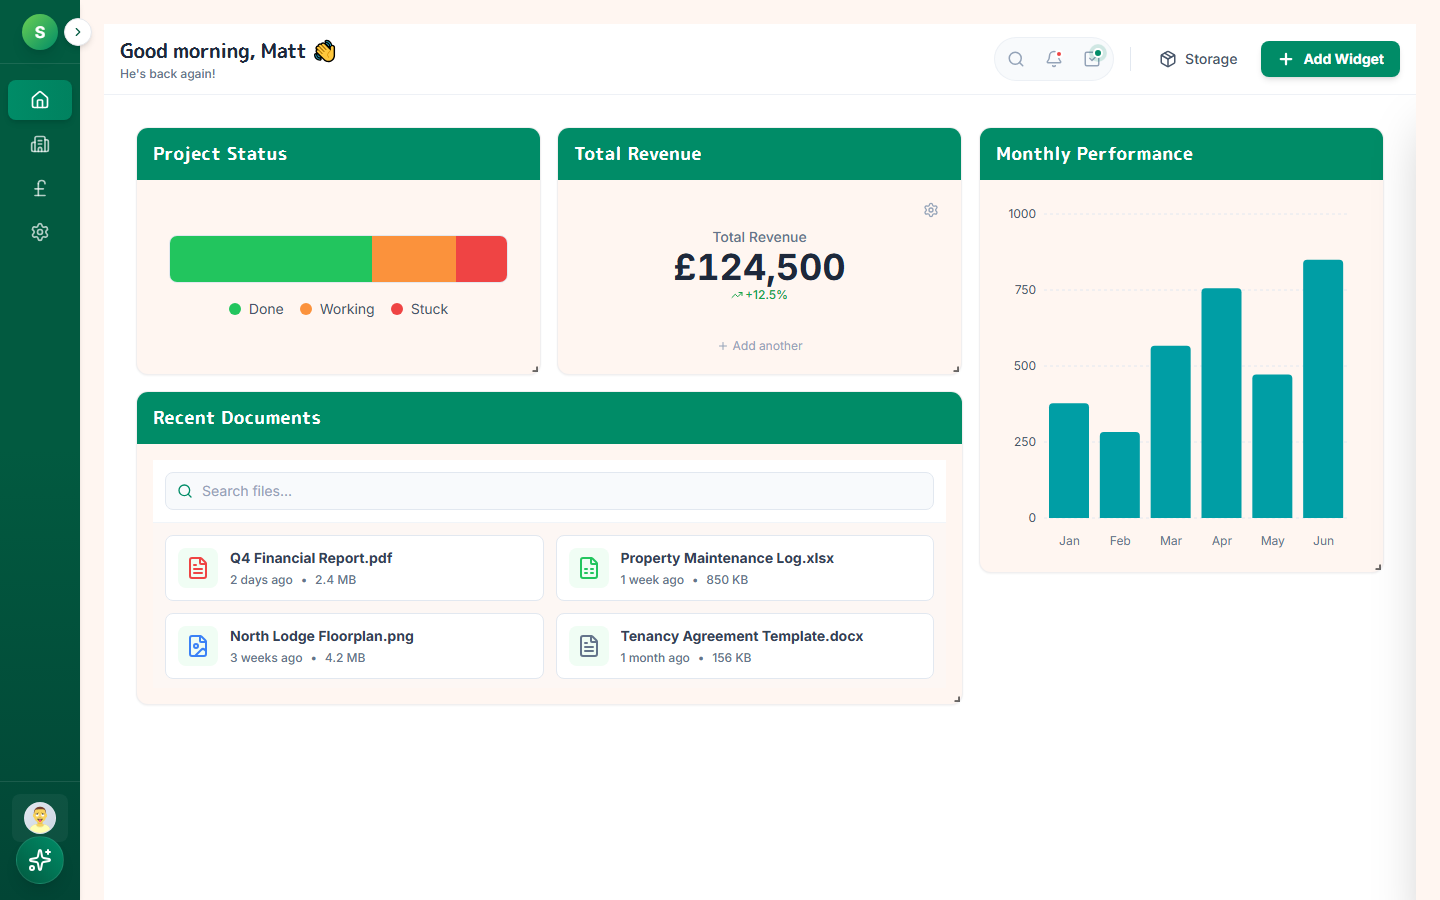
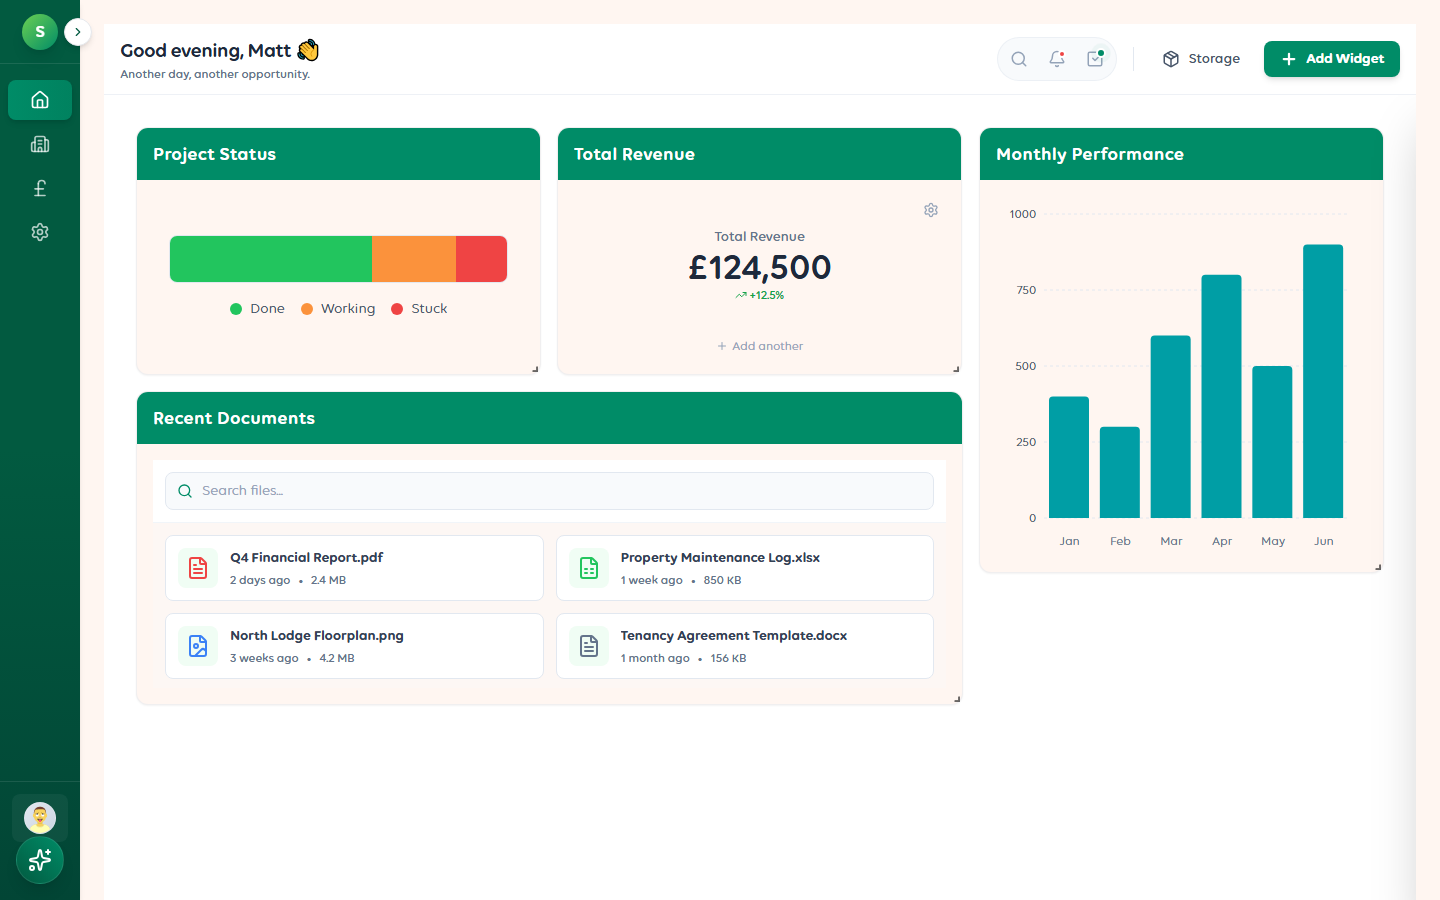
docs: Update TODO.md to reflect actual progress, refresh screenshots
- Updated TODO.md with current state summary
- Marked Phases 1-3 as complete (core flow, codebase health, brand)
- Reorganised future priorities into clear phases
- Fixed screenshot script port (5173)
- Captured fresh screenshots of Dashboard, Property Hub, Property Profile

🤖 Generated with [Claude Code](https://claude.com/claude-code)

diff --git a/scripts/screenshot.js b/scripts/screenshot.js
@@ -5,13 +5,13 @@ import { chromium } from 'playwright';
     const page = await browser.newPage({ viewport: { width: 1440, height: 900 } });
 
     // Screenshot Dashboard
-    await page.goto('http://localhost:5181/');
+    await page.goto('http://localhost:5173/');
     await page.waitForTimeout(1000); // Wait for animations
     await page.screenshot({ path: 'screenshots/dashboard.png', fullPage: false });
     console.log('Captured: Dashboard');
 
     // Screenshot Property Hub
-    await page.goto('http://localhost:5181/properties');
+    await page.goto('http://localhost:5173/properties');
     await page.waitForTimeout(1000);
     await page.screenshot({ path: 'screenshots/properties.png', fullPage: false });
     console.log('Captured: Property Hub');

diff --git a/docs/TODO.md b/docs/TODO.md
@@ -1,162 +1,141 @@
 # Solas CRM — Development TODO
 
-**Last Updated:** 30 November 2025
+**Last Updated:** 24 December 2024
 **Current Branch:** `feature/code-quality-fixes`
 
 ---
 
-## Phase 1: Unblock Core Flow (P0)
+## Current State Summary
 
-> **Goal:** Get property viewing working so Solas is demo-able.
-
-### 1.1 Fix Property Profile Crash
-- [ ] Open browser DevTools, click a property, capture the exact error
-- [ ] Check `src/components/PropertyProfile/index.tsx` for undefined props
-- [ ] Verify all 17 tab imports resolve (check for typos/missing exports)
-- [ ] Test with reduced tab set (comment out all but Overview)
-- [ ] Fix data shape mismatches between `PropertyAsset` and tab props
-- [ ] Confirm fix by clicking all 6 mock properties
-
-### 1.2 Improve Dev Error Visibility
-- [ ] Update `ErrorBoundary.tsx` to show stack trace when `import.meta.env.DEV`
-- [ ] Add `console.error` logging in error boundary
-
-### 1.3 Verify All Navigation
-- [ ] Dashboard loads ✓
-- [ ] Properties loads ✓
-- [ ] Finance loads (check for errors)
-- [ ] Settings/StyleGuide loads
+| Area | Status | Notes |
+|------|--------|-------|
+| Dashboard | ✅ Working | Drag-drop widgets, greeting, stats |
+| Property Hub | ✅ Working | Full table, search, filters, saved views |
+| Property Profile | ✅ Working | 7 tabs, all loading correctly |
+| Finance Page | ⚠ Basic | Structure in place, needs features |
+| Sidebar/Routing | ✅ Working | React Router, browser nav works |
+| Brand/Fonts | ✅ Working | Volte Rounded, ivolve colours |
+| Backend | ❌ Not started | Mock data only |
+| Tests | ❌ Not started | No test coverage |
 
 ---
 
-## Phase 2: Infrastructure (P1)
+## Phase 1: Core Flow ✅ COMPLETE
 
-> **Goal:** Professional-grade architecture for scaling.
+- [x] Fix Property Profile crash (React hooks order issue)
+- [x] Wire up PropertyHubEnhanced with full functionality
+- [x] React Router integration
+- [x] Sidebar navigation with Links
+- [x] Browser back/forward working
+- [x] All views loading without errors
 
-### 2.1 Add React Router ✅ COMPLETE
-- [x] Install `react-router-dom`
-- [x] Create route structure: `/`, `/properties`, `/properties/:id`, `/finance`, `/settings`
-- [x] Update Sidebar to use `<Link>` components
-- [x] Replace AppContext view switching with router navigation
-- [x] Handle browser back/forward
+---
 
-### 2.2 Wire Up Enhanced PropertyHub
-- [ ] Connect `PropertyHubEnhanced.tsx` or integrate its features
-- [ ] Enable AdvancedFilterBuilder in UI
-- [ ] Connect SavedViewsPanel
-- [ ] Wire up exportUtils (CSV/XLSX export buttons)
+## Phase 2: Codebase Health ✅ COMPLETE
 
-### 2.3 Add Basic Testing
+- [x] Major cleanup - removed ~130 unused files
+- [x] Deleted legacy prototype folder
+- [x] Removed 13 unused PropertyProfile tabs
+- [x] Organised docs into `docs/` folder
+- [x] Updated .gitignore
+- [x] Down to 75 source files (from ~200+)
+
+---
+
+## Phase 3: Brand Alignment ✅ COMPLETE
+
+- [x] Volte Rounded fonts installed (`public/fonts/`)
+- [x] @font-face declarations in index.css
+- [x] Tailwind fontFamily updated
+- [x] ivolve brand colours configured:
+  - Dark Green: #025A40
+  - Mid Green: #008C67
+  - Bright Green: #6BD052
+  - Teal Blue: #009EA5
+  - Off-White: #FFF6F1
+
+---
+
+## Phase 4: Next Priorities
+
+### 4.1 Testing (P1)
 - [ ] Install Vitest + React Testing Library
-- [ ] Write smoke test: Dashboard renders
-- [ ] Write smoke test: PropertyHub renders with mock data
-- [ ] Write unit test: compliance status calculation
+- [ ] Smoke test: Dashboard renders
+- [ ] Smoke test: PropertyHub renders with mock data
+- [ ] Unit test: compliance status calculation
 
----
-
-## Phase 3: Backend Integration (P1)
-
-> **Goal:** Persistent data, real users.
-
-### 3.1 Firebase Setup
+### 4.2 Firebase Integration (P1)
 - [ ] Create Firebase project
 - [ ] Configure Firebase in `src/firebase/config.ts`
 - [ ] Set up Firestore database structure
-
-### 3.2 Authentication
 - [ ] Implement Firebase Auth
 - [ ] Create login page
-- [ ] Protect routes (redirect to login if not authenticated)
-- [ ] Update Sidebar to show real user info
+- [ ] Protect routes
 
-### 3.3 Data Layer
-- [ ] Create `useProperties` hook to fetch from Firestore
-- [ ] Replace `properties.json` import with Firestore query
-- [ ] Add loading states for data fetching
-- [ ] Implement property CRUD operations
-
----
-
-## Phase 4: Feature Completion (P2)
-
-> **Goal:** Full feature parity with design intent.
-
-### 4.1 Finance Module
-- [ ] Complete Rent Schedule table with all fields
+### 4.3 Finance Module (P2)
+- [ ] Complete Rent Schedule table
 - [ ] Implement Void Cost Calculator
 - [ ] Add arrears tracking display
 
-### 4.2 Compliance Dashboard
-- [ ] Create "Expiring Soon" widget (30/60/90 day warnings)
-- [ ] Add compliance traffic lights to PropertyHub
-- [ ] Implement "At Risk Properties" view
-
-### 4.3 Care & Support
-- [ ] Elevate care features to top-level navigation
-- [ ] Build Care Plans section
-- [ ] Implement Incident Report log with timeline
-- [ ] Add Support Hours tracking (commissioned vs delivered)
-
----
-
-## Phase 5: Polish & UX (P2)
-
-### 5.1 Visual Refinement
-- [ ] Add subtle gradients to card backgrounds
-- [ ] Improve button hover/active states
-- [ ] Add loading skeletons instead of spinners
-
-### 5.2 Accessibility
-- [ ] Audit ARIA labels on all interactive elements
-- [ ] Ensure keyboard navigation works throughout
-- [ ] Test focus management in modals
-
-### 5.3 Mobile Responsiveness
+### 4.4 Mobile Responsiveness (P2)
 - [ ] Test all views on mobile viewport
 - [ ] Add hamburger menu for mobile sidebar
-- [ ] Ensure PropertyHub table is usable on small screens
+- [ ] Ensure PropertyHub table scrolls properly
 
 ---
 
-## Phase 6: Advanced Features (P3)
+## Phase 5: Future Features (P3)
 
-> **Goal:** Differentiating "cheat codes" for competitive advantage.
+### Compliance Dashboard
+- [ ] "Expiring Soon" widget (30/60/90 day warnings)
+- [ ] Compliance traffic lights in PropertyHub
+- [ ] "At Risk Properties" view
 
-### 6.1 Document Intelligence
-- [ ] Implement file upload to Firebase Storage
-- [ ] Add document viewer for PDFs
-- [ ] (Future) AI document parsing for compliance certificates
+### Care & Support
+- [ ] Care Plans section
+- [ ] Incident Report log with timeline
+- [ ] Support Hours tracking
 
-### 6.2 Notifications
-- [ ] Set up Firebase Cloud Messaging
-- [ ] Create notification centre in UI
-- [ ] Trigger alerts for expiring compliance items
+### Document Intelligence
+- [ ] File upload to Firebase Storage
+- [ ] Document viewer for PDFs
+- [ ] (Future) AI document parsing
 
-### 6.3 Reporting
-- [ ] Property portfolio summary PDF export
+### Reporting
+- [ ] Property portfolio summary PDF
 - [ ] Compliance status report
 - [ ] Financial overview report
 
 ---
 
-## Quick Reference: Key Files
+## Key Files Reference
 
-| Area | Primary File |
-|------|--------------|
-| Crash Location | `src/components/PropertyProfile/index.tsx` |
-| Navigation | `src/context/AppContext.tsx`, `src/components/Sidebar.tsx` |
+| Area | File |
+|------|------|
+| App Entry | `src/App.tsx` |
+| Dashboard | `src/components/Dashboard/DashboardLayout.tsx` |
+| Property Hub | `src/components/PropertyHub/PropertyHubEnhanced.tsx` |
+| Property Profile | `src/components/PropertyProfile/index.tsx` |
 | Data Model | `src/types.ts` |
 | Mock Data | `src/data/properties.json` |
-| Unused Features | `src/components/PropertyHub/PropertyHubEnhanced.tsx` |
-| Dashboard | `src/components/Dashboard/DashboardLayout.tsx` |
+| Styles | `src/index.css`, `tailwind.config.js` |
+| Context | `src/context/AppContext.tsx` |
 
 ---
 
-## Agent Prompts Ready
+## Quick Commands
 
-When you're ready to tackle a task, I can write prompts for:
-- Claude Code (Haiku/Sonnet/Opus)
-- Gemini CLI
-- Cursor/Windsurf
+```bash
+# Start dev server
+npm run dev
 
-Just tell me which task and which tool you're using.
+# Type check
+npx tsc --noEmit
+
+# Take screenshots
+node scripts/screenshot.js
+```
+
+---
+
+*Last session: Dec 2024 - Fixed hooks error, wired PropertyHubEnhanced, major cleanup*
